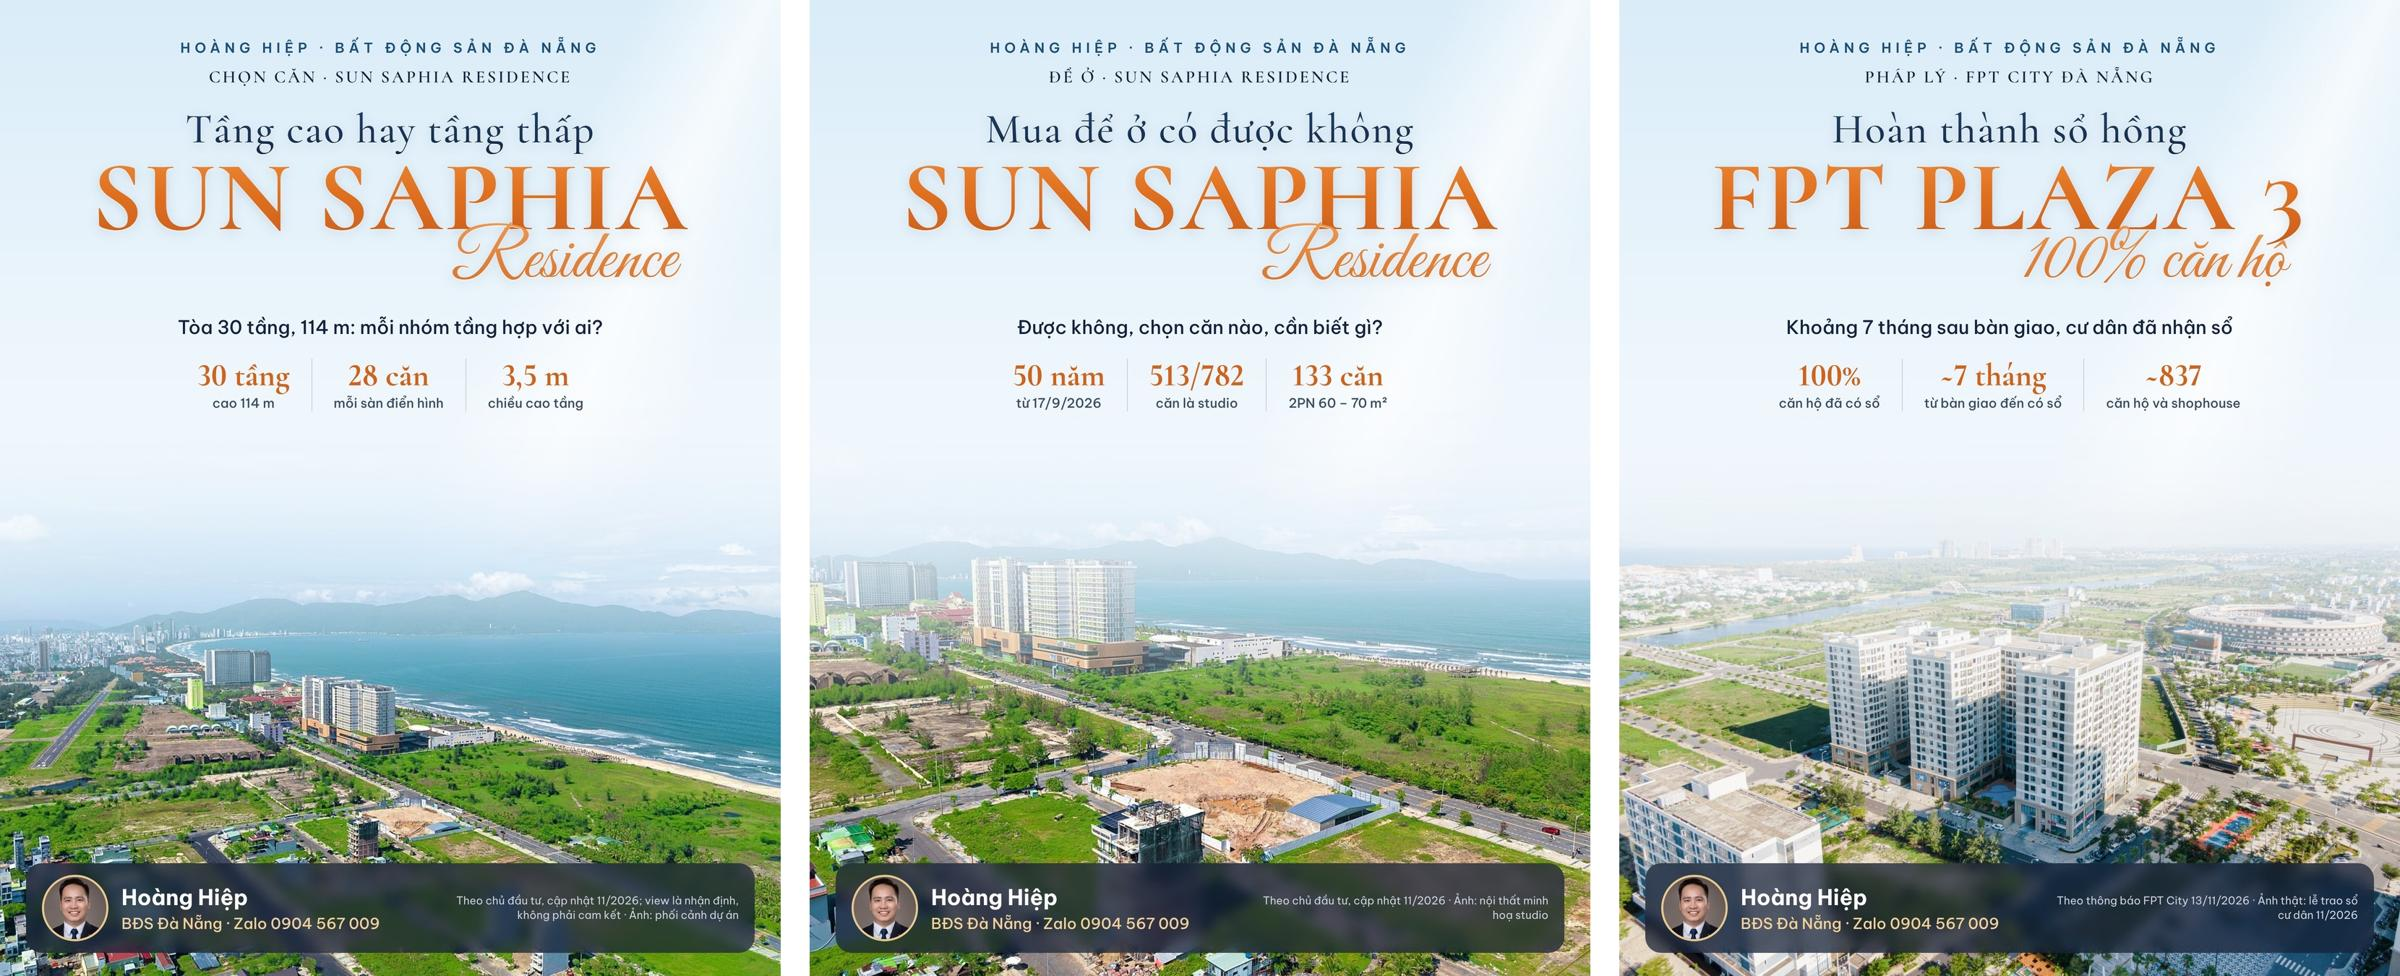
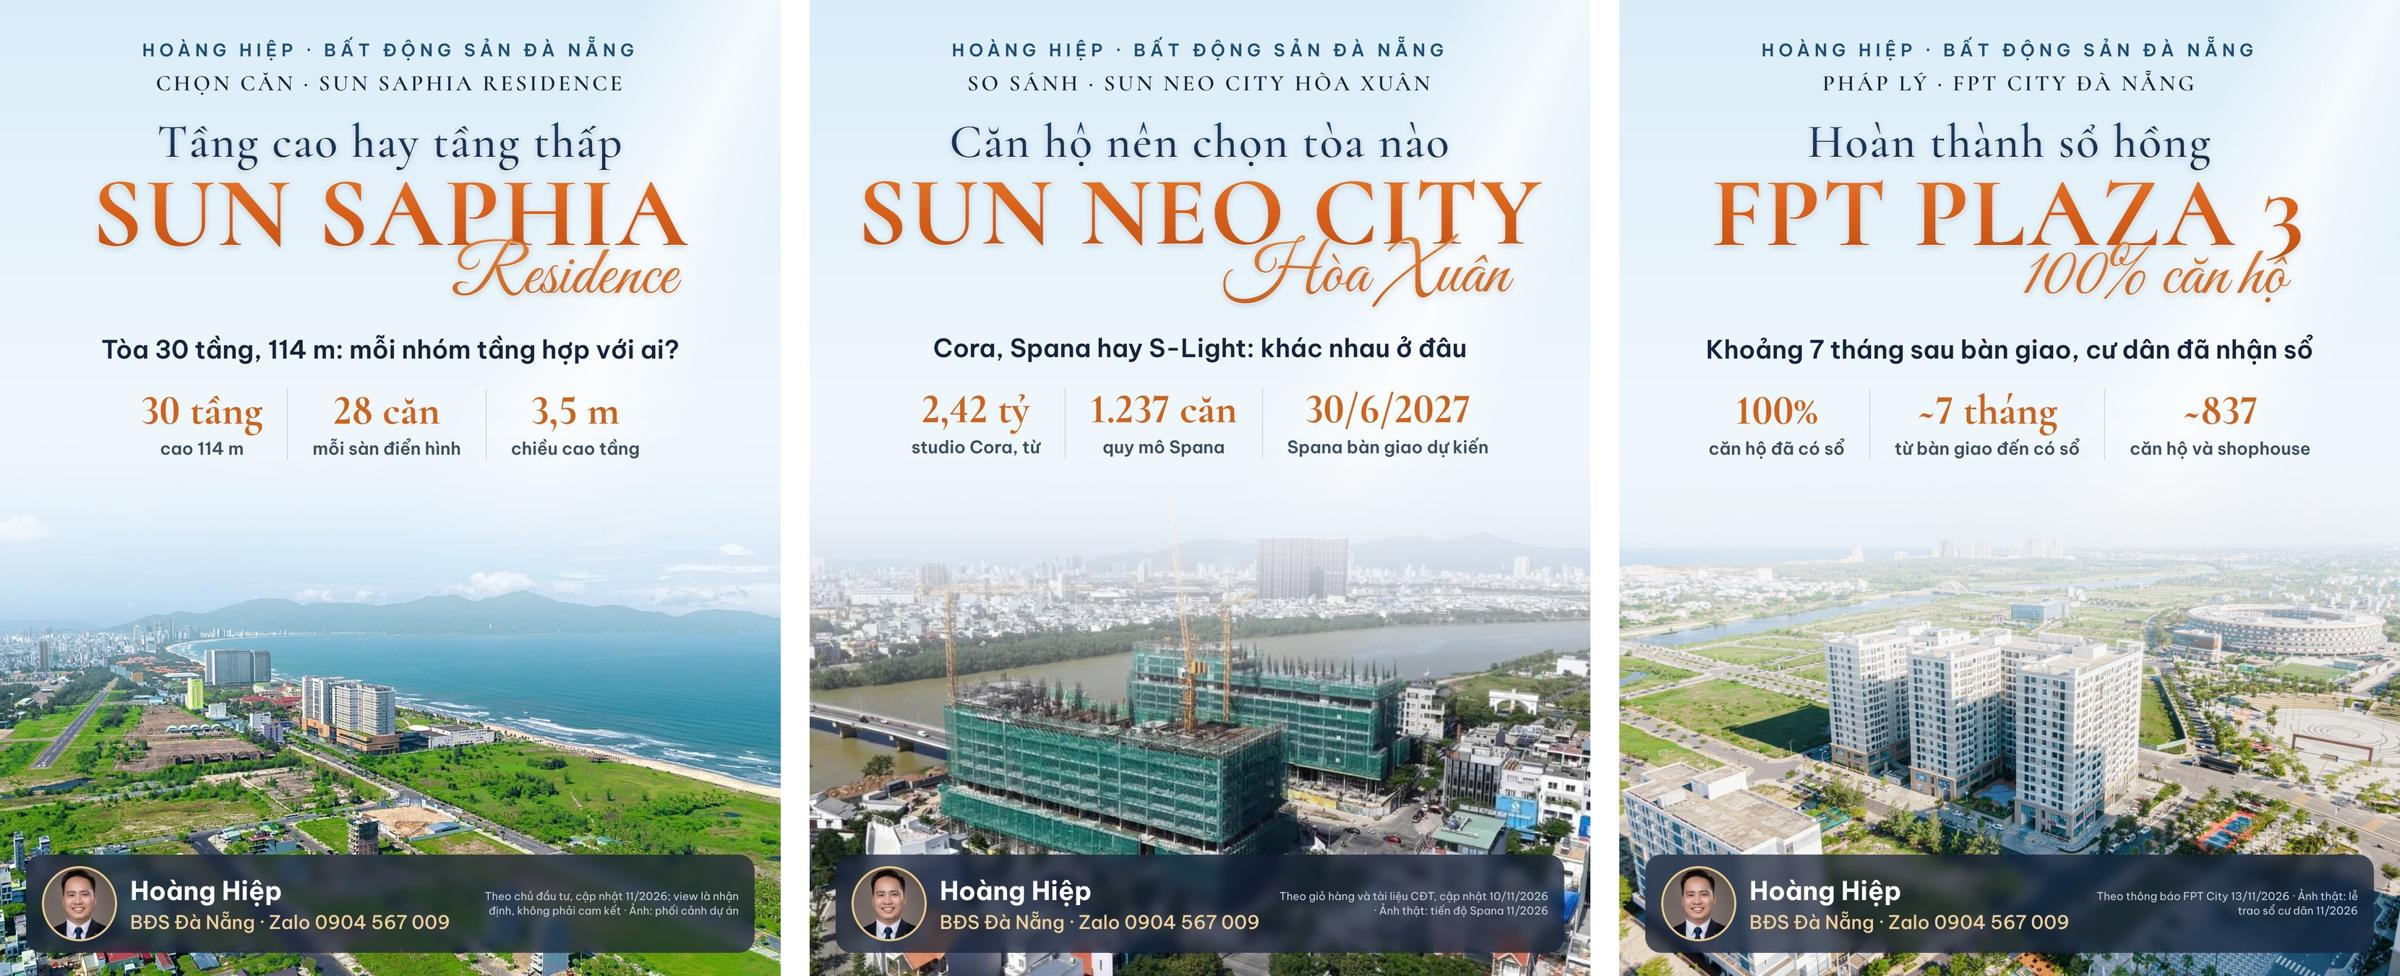
Mẫu poster: chữ nhỏ to hơn, chữ nhấn đậm màu hơn cho dễ đọc
Claude-Session: https://claude.ai/code/session_01Wm6ymiK43bcSEb2Ytz1zHX

diff --git a/wordpress/bai-viet/fb-the-doc-v2.py b/wordpress/bai-viet/fb-the-doc-v2.py
@@ -124,6 +124,21 @@ elif STYLE in ('poster', 'poster-xanh'):
 .pos.xanh .st b{color:#d0621c}
 .pos.xanh .st span{color:#3a4d66}
 .pos.xanh .st+.st{border-left-color:rgba(20,35,63,.2)}
+/* Cỡ chữ lớn hơn cho dễ đọc trên điện thoại (anh Hiệp 15/11/2026) */
+.pos .brand{font-size:24px;letter-spacing:.26em}
+.pos .tag{font-size:31px;margin-top:12px}
+.pos .plain{font-size:66px}
+.pos .sub{font-size:35px;font-weight:600;margin-top:20px}
+.pos .stats{margin-top:30px}
+.pos .st{padding:0 34px}
+.pos .st b{font-size:58px}
+.pos .st span{font-size:24px;font-weight:600;margin-top:6px}
+.pos .foot b{font-size:36px}.pos .foot span{font-size:26px}
+.pos .ava{width:104px;height:104px}
+.pos .note{font-size:18px;max-width:440px}
+.pos.xanh .big{background-image:linear-gradient(180deg,#ee8a35 0%,#d9601a 50%,#b84a12 100%)}
+.pos.xanh .script{background-image:linear-gradient(180deg,#e88a3c,#c4561a)}
+.pos.xanh .l{filter:drop-shadow(0 1px 0 rgba(255,255,255,.9)) drop-shadow(0 2px 4px rgba(20,35,63,.18))}
 .pos .bar{position:absolute;left:36px;right:36px;bottom:32px;display:flex;align-items:center;justify-content:space-between;gap:20px;padding:16px 22px;border-radius:22px;background:rgba(20,30,52,.72);backdrop-filter:blur(8px)}
 .pos .foot b{color:#fff}.pos .foot span{color:#f0cf9a}
 .pos .note{font:400 15px/1.35 BVP;color:#c9cfdb;text-align:right;max-width:420px}"""
